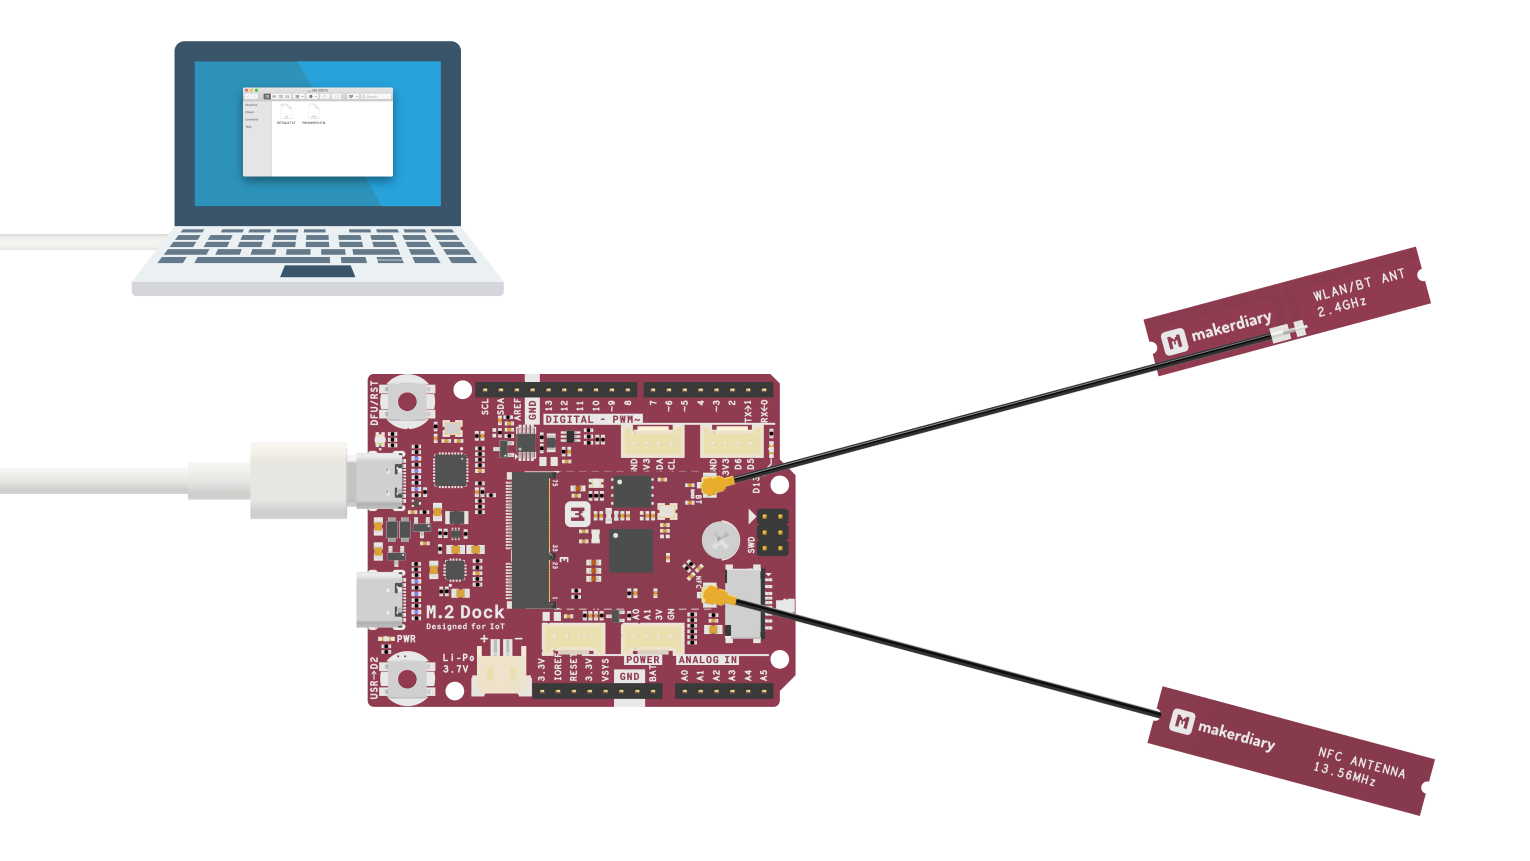
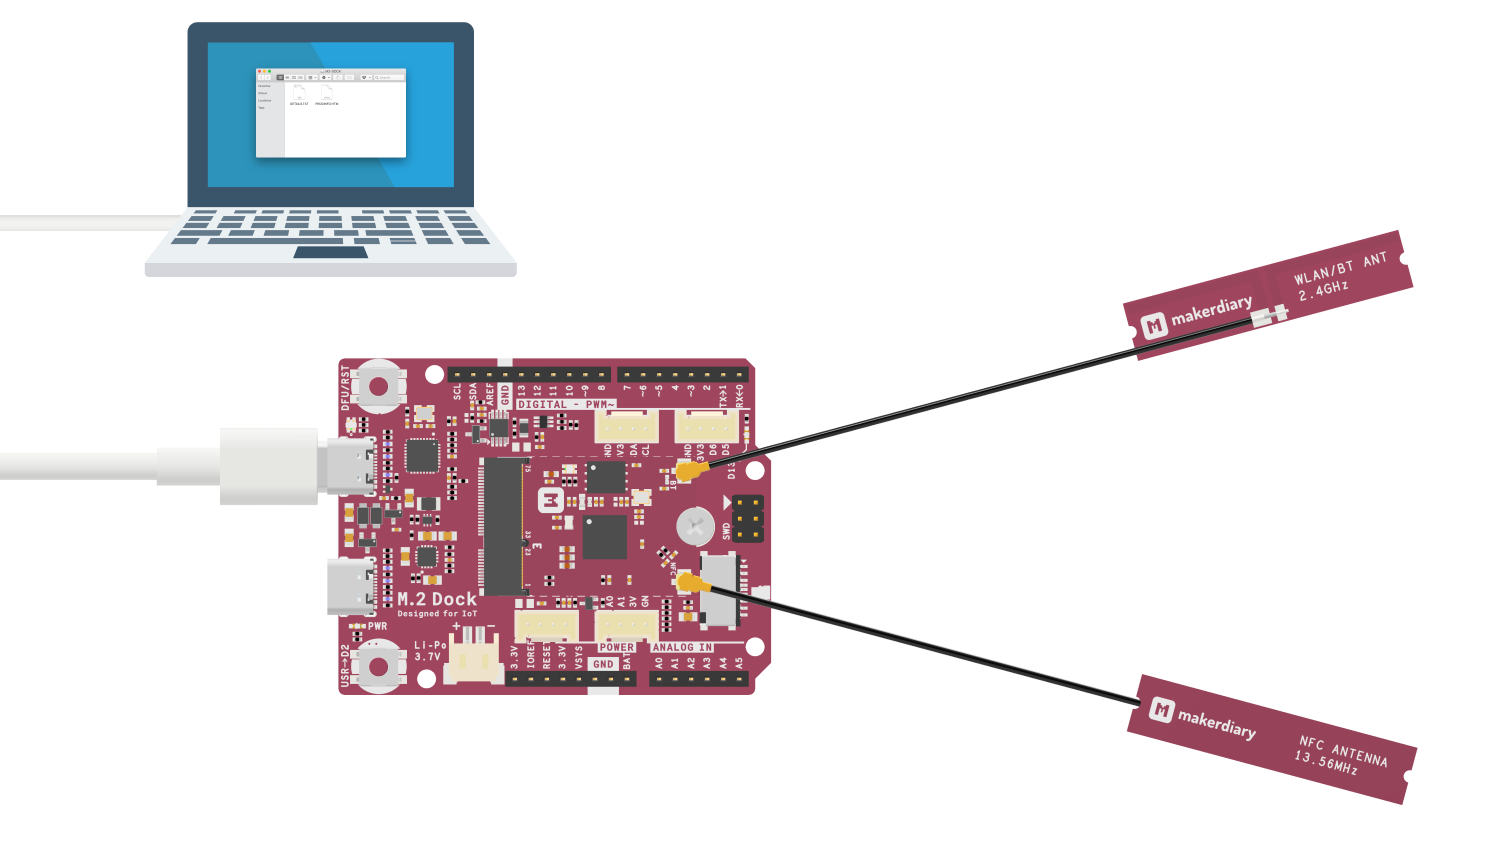
Updated docs images

Changed region(s): [[0.1538, 0.2782, 0.9538, 0.9584], [0.0, 0.0, 0.3692, 0.371], [0.1231, 0.5565, 0.1538, 0.5874]]

diff --git a/docs/index.md b/docs/index.md
@@ -43,7 +43,9 @@ The [M.2 Dock](../m2-dock) extends the interfaces compared to the nRF52840 M.2 M
 
 ## Hardware Diagram
 
-The hardware diagram of the nRF52840 M.2 Developer Kit is shown below.
+The hardware diagram of the nRF52840 M.2 Developer Kit is shown below:
+
+![](assets/images/m2devkit-diagram-1x.png)
 
 ## Included in the Box
 |    **Part**                | **Qty** |
